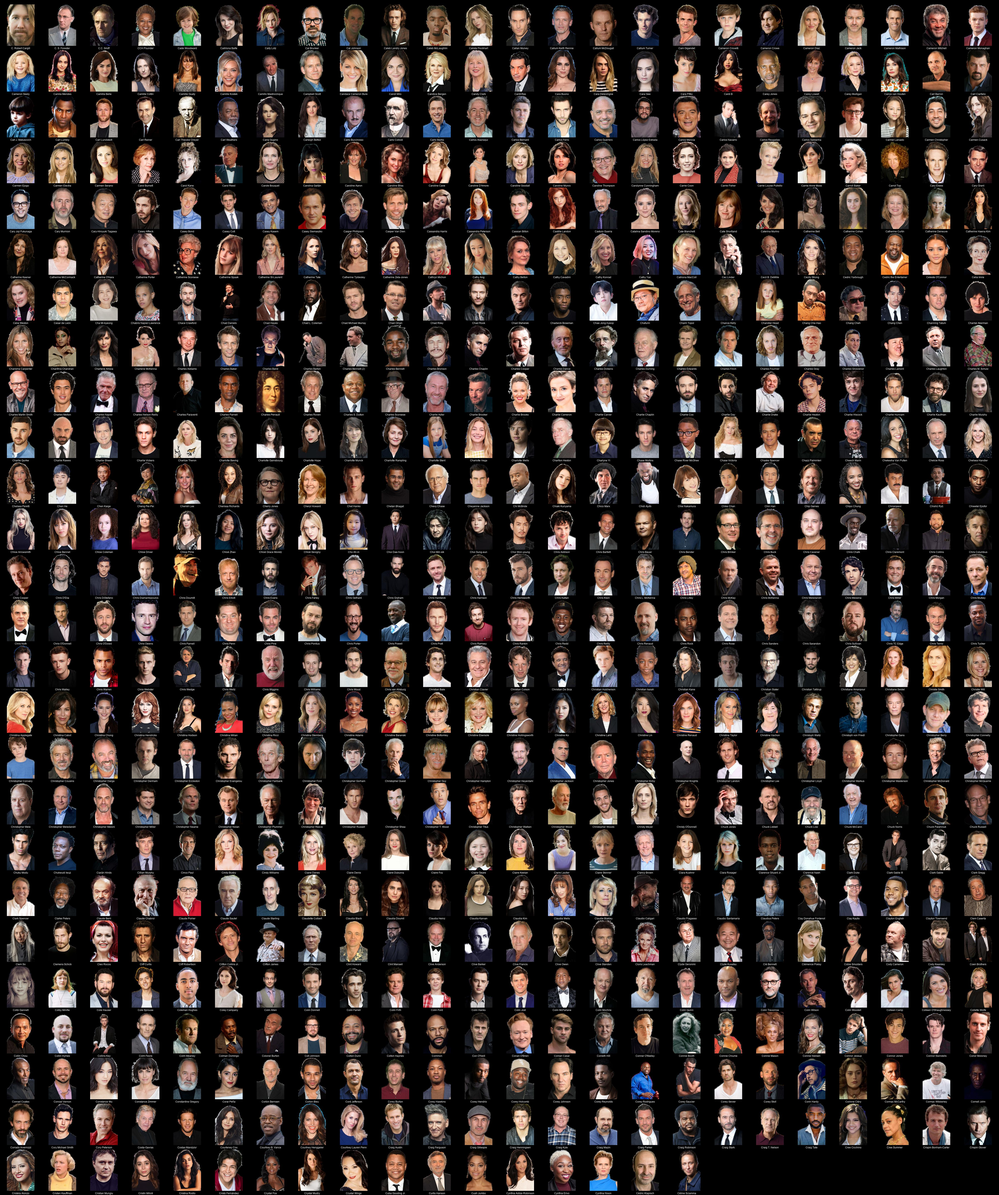
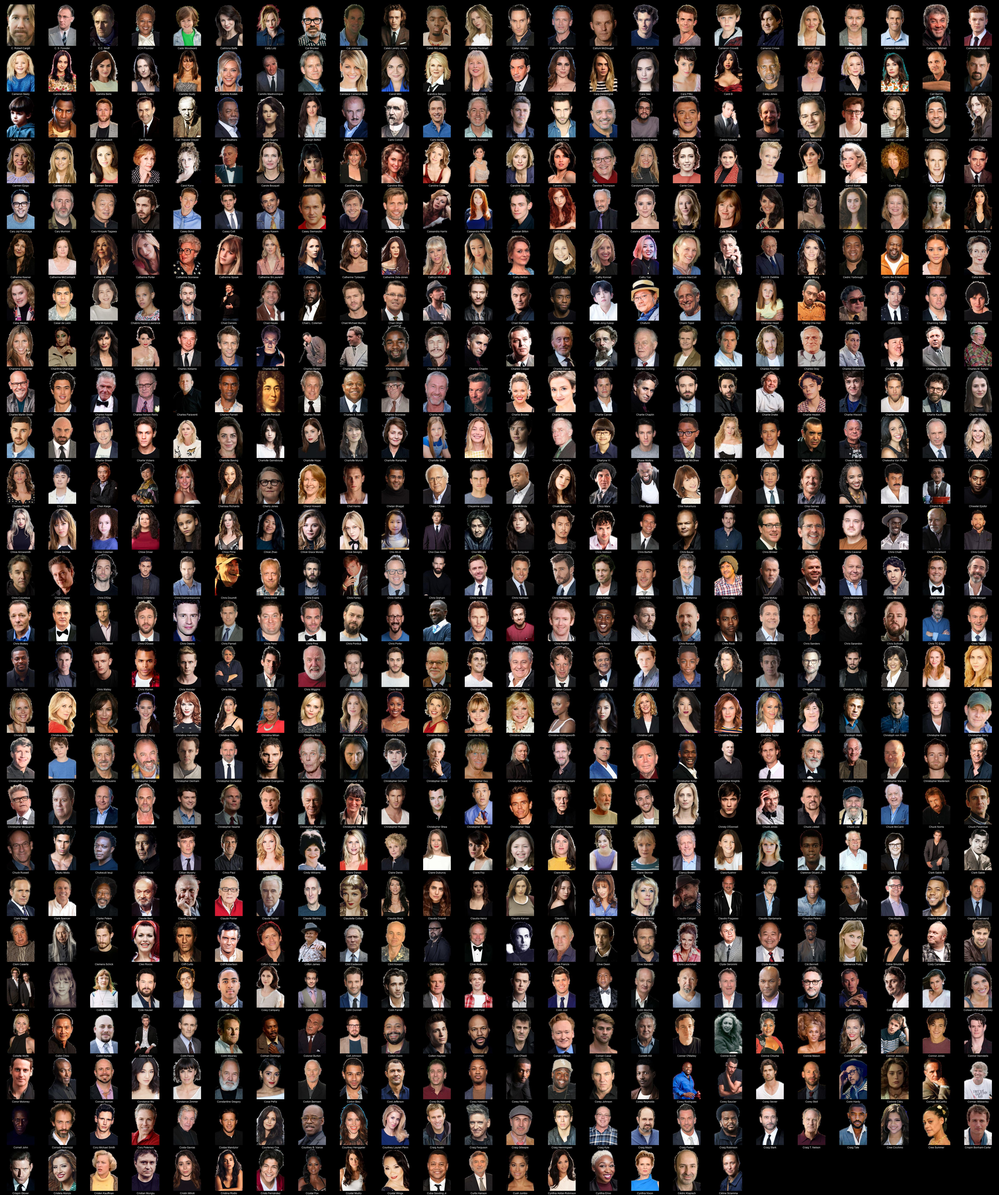
more peeps

Changed region(s): [[0.0, 0.4054, 1.0, 1.0]]

diff --git a/C/README.md b/C/README.md
@@ -1,4 +1,4 @@
-# Kometa People Images - Transparent (transparent) - C (617 Images)
+# Kometa People Images - Transparent (transparent) - C (618 Images)
 ![Grid](grid.jpg)
 
 * [C. Robert Cargill](https://raw.githubusercontent.com/Kometa-Team/People-Images-transparent/master/C/Images/C.%20Robert%20Cargill.png)
@@ -269,6 +269,7 @@
 * [Chloe Bennet](https://raw.githubusercontent.com/Kometa-Team/People-Images-transparent/master/C/Images/Chloe%20Bennet.png)
 * [Chloe Coleman](https://raw.githubusercontent.com/Kometa-Team/People-Images-transparent/master/C/Images/Chloe%20Coleman.png)
 * [Chloe Driver](https://raw.githubusercontent.com/Kometa-Team/People-Images-transparent/master/C/Images/Chloe%20Driver.png)
+* [Chloe Lea](https://raw.githubusercontent.com/Kometa-Team/People-Images-transparent/master/C/Images/Chloe%20Lea.png)
 * [Chloe Pirrie](https://raw.githubusercontent.com/Kometa-Team/People-Images-transparent/master/C/Images/Chloe%20Pirrie.png)
 * [Chloé Zhao](https://raw.githubusercontent.com/Kometa-Team/People-Images-transparent/master/C/Images/Chlo%C3%A9%20Zhao.png)
 * [Chloë Grace Moretz](https://raw.githubusercontent.com/Kometa-Team/People-Images-transparent/master/C/Images/Chlo%C3%AB%20Grace%20Moretz.png)

diff --git a/G/README.md b/G/README.md
@@ -1,4 +1,4 @@
-# Kometa People Images - Transparent (transparent) - G (322 Images)
+# Kometa People Images - Transparent (transparent) - G (323 Images)
 ![Grid](grid.jpg)
 
 * [G-Eazy](https://raw.githubusercontent.com/Kometa-Team/People-Images-transparent/master/G/Images/G-Eazy.png)
@@ -143,6 +143,7 @@
 * [Georgie Henley](https://raw.githubusercontent.com/Kometa-Team/People-Images-transparent/master/G/Images/Georgie%20Henley.png)
 * [Georgina Cates](https://raw.githubusercontent.com/Kometa-Team/People-Images-transparent/master/G/Images/Georgina%20Cates.png)
 * [Georgina Leonidas](https://raw.githubusercontent.com/Kometa-Team/People-Images-transparent/master/G/Images/Georgina%20Leonidas.png)
+* [Gerald Early](https://raw.githubusercontent.com/Kometa-Team/People-Images-transparent/master/G/Images/Gerald%20Early.png)
 * [Gerald McRaney](https://raw.githubusercontent.com/Kometa-Team/People-Images-transparent/master/G/Images/Gerald%20McRaney.png)
 * [Gerald R. Molen](https://raw.githubusercontent.com/Kometa-Team/People-Images-transparent/master/G/Images/Gerald%20R.%20Molen.png)
 * [Gerald Thomas](https://raw.githubusercontent.com/Kometa-Team/People-Images-transparent/master/G/Images/Gerald%20Thomas.png)
